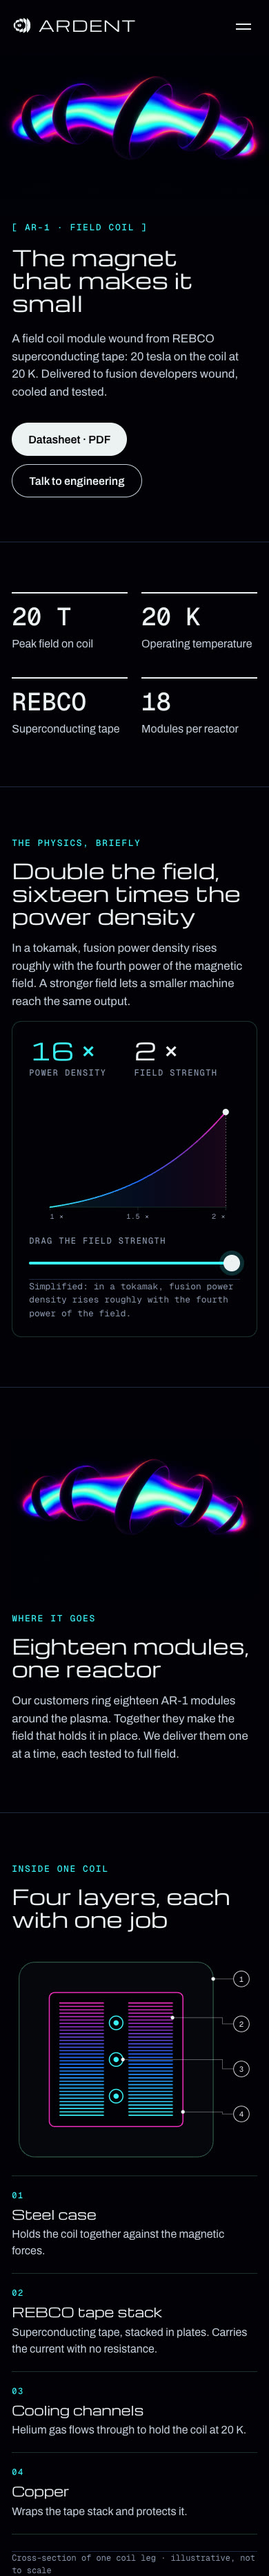
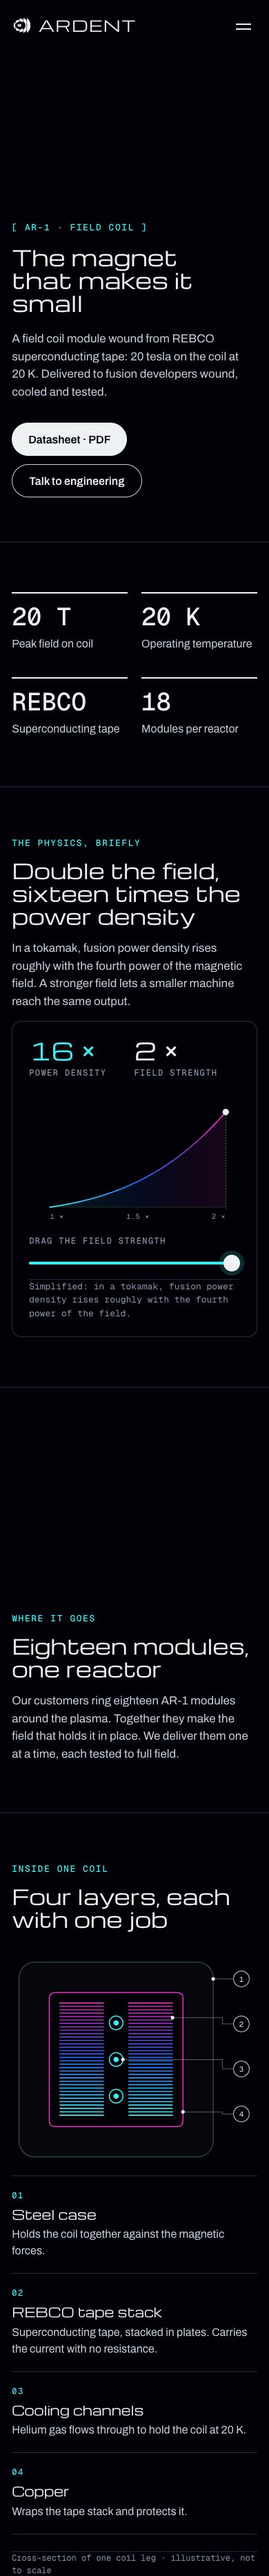
Ardent: site shots without baked-in clips so the live videos don't ghost; frames keep their rounded corners

diff --git a/projects/ardent.html b/projects/ardent.html
@@ -39,7 +39,9 @@
   .browser .bar { height: 30px; display: flex; align-items: center; gap: 6px; padding: 0 12px; background: #0E0D14; }
   .browser .bar i { width: 9px; height: 9px; border-radius: 50%; background: #2A2833; }
   .browser .bar span { margin-left: 12px; font: 500 11px 'Geist Mono', monospace; color: var(--a-mute); }
-  .scroll { overflow-y: auto; overscroll-behavior: contain; scrollbar-width: thin; scrollbar-color: #2A2833 transparent; }
+  /* no scrollbar inside the frames: its strip squares off the rounded corner on that side */
+  .scroll { overflow-y: auto; overscroll-behavior: contain; scrollbar-width: none; background: var(--a-space); }
+  .scroll::-webkit-scrollbar { display: none; }
   .scroll img { display: block; width: 100%; height: auto; }
   .shot { position: relative; }
   .shot .ov { position: absolute; object-fit: cover; display: block; }
@@ -131,11 +133,11 @@
     </section>
     <div class="browser show">
       <div class="bar"><i></i><i></i><i></i><span>ardent.example/ar-1</span></div>
-      <div class="scroll" tabindex="0" aria-label="The AR-1 product page, full length"><div class="shot"><img src="../images/process/ardent/site-ar-1.jpg" alt="The AR-1 product page" loading="lazy"><video class="ov" data-src="../ardent-fusion/web/site/media/holding.mp4" muted loop playsinline preload="none" aria-hidden="true" style="left:0.000%;top:0.000%;width:100.000%;height:9.846%;object-position:50% 0%;-webkit-mask-image:linear-gradient(0deg, transparent 0, rgba(0,0,0,.3) 22%, #000 55%);mask-image:linear-gradient(0deg, transparent 0, rgba(0,0,0,.3) 22%, #000 55%)"></video><video class="ov" data-src="../ardent-fusion/web/site/media/holding.mp4" muted loop playsinline preload="none" aria-hidden="true" style="left:4.417%;top:37.074%;width:44.583%;height:6.300%;object-position:50% 50%;border-radius:2.24% / 3.36%"></video><video class="ov" data-src="../ardent-fusion/web/site/media/small.mp4" muted loop playsinline preload="none" aria-hidden="true" style="left:0.000%;top:82.530%;width:100.000%;height:12.687%;object-position:50% 100%;-webkit-mask-image:linear-gradient(180deg, transparent 10%, rgba(0,0,0,.45) 36%, #000 60%);mask-image:linear-gradient(180deg, transparent 10%, rgba(0,0,0,.45) 36%, #000 60%)"></video></div></div>
+      <div class="scroll" tabindex="0" aria-label="The AR-1 product page, full length"><div class="shot"><img src="../images/process/ardent/site-ar-1.jpg?v=3" alt="The AR-1 product page" loading="lazy"><video class="ov" data-src="../ardent-fusion/web/site/media/holding.mp4" poster="../ardent-fusion/web/site/media/holding.jpg" muted loop playsinline preload="none" aria-hidden="true" style="left:0.000%;top:0.000%;width:100.000%;height:9.846%;object-position:50% 0%;-webkit-mask-image:linear-gradient(0deg, transparent 0, rgba(0,0,0,.3) 22%, #000 55%);mask-image:linear-gradient(0deg, transparent 0, rgba(0,0,0,.3) 22%, #000 55%)"></video><video class="ov" data-src="../ardent-fusion/web/site/media/holding.mp4" poster="../ardent-fusion/web/site/media/holding.jpg" muted loop playsinline preload="none" aria-hidden="true" style="left:4.417%;top:37.074%;width:44.583%;height:6.300%;object-position:50% 50%;border-radius:2.24% / 3.36%"></video><video class="ov" data-src="../ardent-fusion/web/site/media/small.mp4" poster="../ardent-fusion/web/site/media/small.jpg" muted loop playsinline preload="none" aria-hidden="true" style="left:0.000%;top:82.530%;width:100.000%;height:12.687%;object-position:50% 100%;-webkit-mask-image:linear-gradient(180deg, transparent 10%, rgba(0,0,0,.45) 36%, #000 60%);mask-image:linear-gradient(180deg, transparent 10%, rgba(0,0,0,.45) 36%, #000 60%)"></video></div></div>
     </div>
     <div class="phones">
-      <figure><div class="phone"><div class="scroll" tabindex="0"><div class="shot"><img src="../images/process/ardent/site-technology-phone.jpg" alt="Technology page on a phone" loading="lazy"><video class="ov" data-src="../ardent-fusion/web/site/media/plasma.mp4" muted loop playsinline preload="none" aria-hidden="true" style="left:0.000%;top:1.340%;width:100.000%;height:4.584%;object-position:70% 50%;-webkit-mask-image:linear-gradient(0deg, transparent 0, #000 35%);mask-image:linear-gradient(0deg, transparent 0, #000 35%)"></video><video class="ov" data-src="../ardent-fusion/web/site/media/holding.mp4" muted loop playsinline preload="none" aria-hidden="true" style="left:0.000%;top:26.481%;width:100.000%;height:4.584%;object-position:50% 0%;-webkit-mask-image:linear-gradient(0deg, transparent 0, #000 35%);mask-image:linear-gradient(0deg, transparent 0, #000 35%)"></video><video class="ov" data-src="../ardent-fusion/web/site/media/small.mp4" muted loop playsinline preload="none" aria-hidden="true" style="left:0.000%;top:51.234%;width:100.000%;height:4.584%;object-position:50% 100%;-webkit-mask-image:linear-gradient(180deg, transparent 10%, rgba(0,0,0,.45) 36%, #000 60%);mask-image:linear-gradient(180deg, transparent 10%, rgba(0,0,0,.45) 36%, #000 60%)"></video></div></div></div><figcaption class="cap">Technology</figcaption></figure>
-      <figure><div class="phone"><div class="scroll" tabindex="0"><div class="shot"><img src="../images/process/ardent/site-ar-1-phone.jpg" alt="AR-1 product page on a phone" loading="lazy"><video class="ov" data-src="../ardent-fusion/web/site/media/holding.mp4" muted loop playsinline preload="none" aria-hidden="true" style="left:0.000%;top:2.041%;width:100.000%;height:6.982%;object-position:50% 0%;-webkit-mask-image:linear-gradient(0deg, transparent 0, #000 35%);mask-image:linear-gradient(0deg, transparent 0, #000 35%)"></video><video class="ov" data-src="../ardent-fusion/web/site/media/holding.mp4" muted loop playsinline preload="none" aria-hidden="true" style="left:4.359%;top:55.800%;width:91.282%;height:6.364%;object-position:50% 50%;border-radius:3.37% / 5.06%"></video></div></div></div><figcaption class="cap">AR-1</figcaption></figure>
+      <figure><div class="phone"><div class="scroll" tabindex="0"><div class="shot"><img src="../images/process/ardent/site-technology-phone.jpg?v=3" alt="Technology page on a phone" loading="lazy"><video class="ov" data-src="../ardent-fusion/web/site/media/plasma.mp4" poster="../ardent-fusion/web/site/media/plasma.jpg" muted loop playsinline preload="none" aria-hidden="true" style="left:0.000%;top:1.340%;width:100.000%;height:4.584%;object-position:70% 50%;-webkit-mask-image:linear-gradient(0deg, transparent 0, #000 35%);mask-image:linear-gradient(0deg, transparent 0, #000 35%)"></video><video class="ov" data-src="../ardent-fusion/web/site/media/holding.mp4" poster="../ardent-fusion/web/site/media/holding.jpg" muted loop playsinline preload="none" aria-hidden="true" style="left:0.000%;top:26.481%;width:100.000%;height:4.584%;object-position:50% 0%;-webkit-mask-image:linear-gradient(0deg, transparent 0, #000 35%);mask-image:linear-gradient(0deg, transparent 0, #000 35%)"></video><video class="ov" data-src="../ardent-fusion/web/site/media/small.mp4" poster="../ardent-fusion/web/site/media/small.jpg" muted loop playsinline preload="none" aria-hidden="true" style="left:0.000%;top:51.234%;width:100.000%;height:4.584%;object-position:50% 100%;-webkit-mask-image:linear-gradient(180deg, transparent 10%, rgba(0,0,0,.45) 36%, #000 60%);mask-image:linear-gradient(180deg, transparent 10%, rgba(0,0,0,.45) 36%, #000 60%)"></video></div></div></div><figcaption class="cap">Technology</figcaption></figure>
+      <figure><div class="phone"><div class="scroll" tabindex="0"><div class="shot"><img src="../images/process/ardent/site-ar-1-phone.jpg?v=3" alt="AR-1 product page on a phone" loading="lazy"><video class="ov" data-src="../ardent-fusion/web/site/media/holding.mp4" poster="../ardent-fusion/web/site/media/holding.jpg" muted loop playsinline preload="none" aria-hidden="true" style="left:0.000%;top:2.041%;width:100.000%;height:6.982%;object-position:50% 0%;-webkit-mask-image:linear-gradient(0deg, transparent 0, #000 35%);mask-image:linear-gradient(0deg, transparent 0, #000 35%)"></video><video class="ov" data-src="../ardent-fusion/web/site/media/holding.mp4" poster="../ardent-fusion/web/site/media/holding.jpg" muted loop playsinline preload="none" aria-hidden="true" style="left:4.359%;top:55.800%;width:91.282%;height:6.364%;object-position:50% 50%;border-radius:3.37% / 5.06%"></video></div></div></div><figcaption class="cap">AR-1</figcaption></figure>
     </div>
 
     <section class="block">
